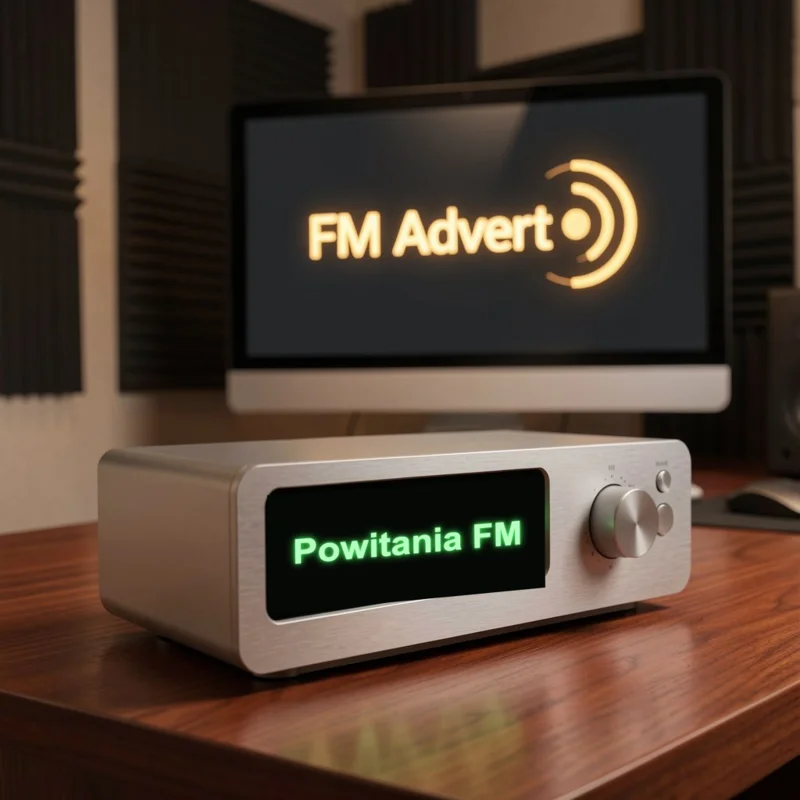
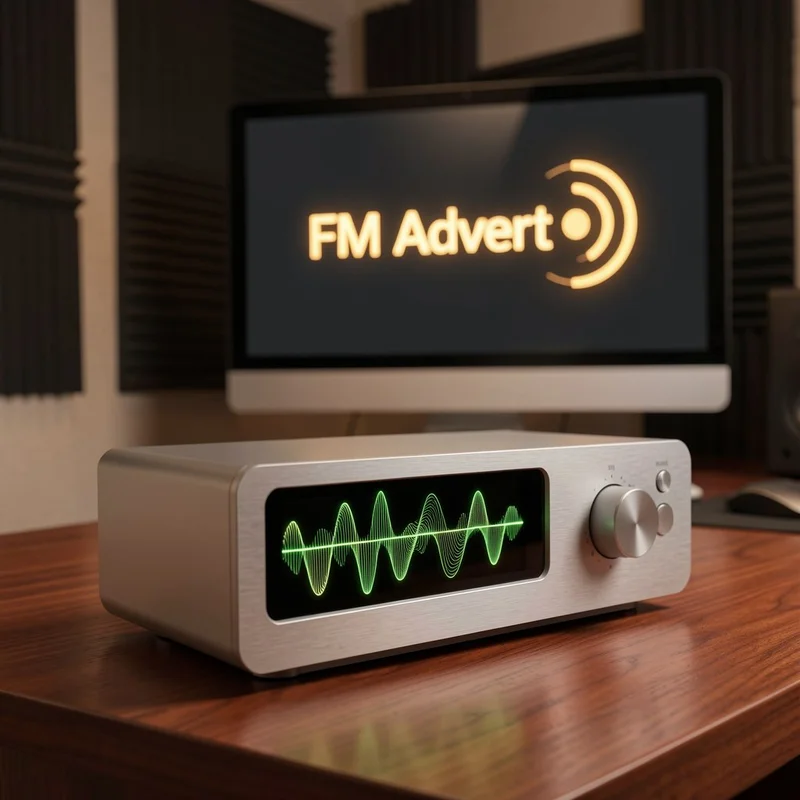
Sklep EN: ceny w EUR (kurs 4.20, sufit do 5 EUR jak bank glosow) + revert zdjec radia
- lib/pakiety.js: pole p.eur (eurCeil identyczne z plnToEur w server.js), tresci EN PLN->EUR
- EN index+detal: karty, kafle, hero, przycisk Order and pay, schema Offer w EUR; platnosc bez zmian w PLN netto (P24), notki "Payment in PLN: X PLN gross"
- meta description /en/packages/ w EUR
- llms.txt: wpis EN w EUR, usuniete stale wzmianki o dogrywce (PL+EN)
- zdjecia spotow radiowych przywrocone do oryginalu (sprzed edycji Powitania FM)

Changed region(s): [[0.3438, 0.5938, 0.6875, 0.75]]

diff --git a/lib/pakiety.js b/lib/pakiety.js
@@ -12,6 +12,10 @@
 
 const VAT = 0.23;
 const brutto = (netto) => (Math.round(netto * (1 + VAT) * 100) / 100).toFixed(2);
+// EUR do wyswietlania na EN: kurs i zaokraglenie W GORE do 5 EUR - identycznie jak
+// plnToEur() w server.js (bank glosow EN). Platnosc i tak idzie w PLN (P24).
+const EUR_RATE = 4.20;
+const eurCeil = (netto) => Math.ceil((netto / EUR_RATE) / 5) * 5;
 
 // Kategoria -> regex dopasowania próbek lektora (samples[].name w voices.json)
 const SAMPLE_MATCH = {
@@ -33,7 +37,7 @@ const PAKIETY = [
     title: 'Zapowiedź telefoniczna cena: pakiet START 380 zł netto | Powitania',
     titleEn: 'Phone greeting recording price: START package | Powitania',
     metaDescription: 'Ile kosztuje nagranie zapowiedzi telefonicznej? Pakiet START: do 3 komunikatów IVR, łącznie do 100 słów, głos z banku, licencja bezterminowa, realizacja 48h. Cena 380 zł netto (467,40 zł brutto), płatność online.',
-    metaDescriptionEn: 'Phone announcement recording package: up to 3 IVR messages, up to 100 words in total, voice from our bank, perpetual licence, 48h delivery. PLN 380 net, online payment.',
+    metaDescriptionEn: 'Phone announcement recording package: up to 3 IVR messages, up to 100 words in total, voice from our bank, perpetual licence, 48h delivery. EUR 95 net, online payment.',
     h1: 'Pakiet Zapowiedzi telefoniczne START',
     h1En: 'Phone announcements START package',
     short: 'Do 3 komunikatów IVR, łącznie do 100 słów. Nagranie na centralę w 48h, licencja bezterminowa.',
@@ -85,7 +89,7 @@ const PAKIETY = [
     title: 'Nagranie komunikatów IVR z muzyką: pakiet PRO 590 zł netto | Powitania',
     titleEn: 'IVR messages with music: PRO package | Powitania',
     metaDescription: 'Pakiet PRO: do 5 komunikatów IVR, łącznie do 200 słów, podkład muzyczny w cenie, realizacja 72h. Cena 590 zł netto (725,70 zł brutto). Zamów i zapłać online.',
-    metaDescriptionEn: 'PRO package: up to 5 IVR messages, up to 200 words in total, background music included, 72h delivery. PLN 590 net, online payment.',
+    metaDescriptionEn: 'PRO package: up to 5 IVR messages, up to 200 words in total, background music included, 72h delivery. EUR 145 net, online payment.',
     h1: 'Pakiet Zapowiedzi telefoniczne PRO',
     h1En: 'Phone announcements PRO package',
     short: 'Do 5 komunikatów IVR, łącznie do 200 słów, podkład muzyczny w cenie. Realizacja 72h.',
@@ -139,7 +143,7 @@ const PAKIETY = [
     title: 'Dwujęzyczna zapowiedź telefoniczna cena: pakiet PL+EN 530 zł | Powitania',
     titleEn: 'Bilingual phone announcements: PL+EN package | Powitania',
     metaDescription: 'Zapowiedzi telefoniczne po polsku i angielsku: do 3 komunikatów, łącznie do 100 słów, każdy w dwóch wersjach językowych. Cena 530 zł netto (651,90 zł brutto).',
-    metaDescriptionEn: 'Phone announcements in Polish and English: up to 3 messages, up to 100 words in total, each in two language versions. PLN 530 net.',
+    metaDescriptionEn: 'Phone announcements in Polish and English: up to 3 messages, up to 100 words in total, each in two language versions. EUR 130 net.',
     h1: 'Pakiet Zapowiedzi telefoniczne PL+EN',
     h1En: 'Phone announcements PL+EN package',
     short: 'Do 3 komunikatów, łącznie do 100 słów, każdy po polsku i angielsku. Dla firm z klientami zagranicznymi.',
@@ -189,7 +193,7 @@ const PAKIETY = [
     title: 'Komunikaty IVR dla firmy, komplet PL+EN: pakiet MAX 1500 zł | Powitania',
     titleEn: 'Complete bilingual IVR set: MAX package | Powitania',
     metaDescription: 'Kompletna obsługa centrali w dwóch językach: do 10 komunikatów IVR, łącznie do 500 słów, wersje polska i angielska, muzyka w cenie. 1500 zł netto (1845,00 zł brutto).',
-    metaDescriptionEn: 'Complete bilingual PBX set: up to 10 IVR messages, up to 500 words in total, Polish and English versions, music included. PLN 1500 net.',
+    metaDescriptionEn: 'Complete bilingual PBX set: up to 10 IVR messages, up to 500 words in total, Polish and English versions, music included. EUR 360 net.',
     h1: 'Pakiet Zapowiedzi telefoniczne MAX PL+EN',
     h1En: 'Phone announcements MAX PL+EN package',
     short: 'Do 10 komunikatów, łącznie do 500 słów, dwie wersje językowe, muzyka w cenie. Komplet dla rozbudowanej centrali.',
@@ -241,7 +245,7 @@ const PAKIETY = [
     title: 'Spot radiowy cena: nagranie 30 s ze stacją lokalną od 300 zł | Powitania',
     titleEn: 'Radio spot recording price: 30s local station | Powitania',
     metaDescription: 'Ile kosztuje nagranie spotu radiowego? 30-sekundowy spot z lektorem + licencja emisyjna 12 miesięcy na stację lokalną: 300 zł netto (369,00 zł brutto). Zamów online.',
-    metaDescriptionEn: 'Radio spot recording: 30-second voice-over with a 12-month broadcast licence for a local station. PLN 300 net, order online.',
+    metaDescriptionEn: 'Radio spot recording: 30-second voice-over with a 12-month broadcast licence for a local station. EUR 75 net, order online.',
     h1: 'Spot radiowy 30 s - stacja lokalna',
     h1En: 'Radio spot 30 s - local station',
     short: 'Nagranie lektorskie spotu do 30 s + licencja emisyjna 12 miesięcy na stację o zasięgu lokalnym.',
@@ -287,9 +291,9 @@ const PAKIETY = [
     nameEn: 'Radio spot 30 seconds - national station',
     netto: 900,
     title: 'Nagranie spotu radiowego na antenę ogólnopolską: 900 zł netto | Powitania',
-    titleEn: 'Radio spot for nationwide broadcast: PLN 900 net | Powitania',
+    titleEn: 'Radio spot for nationwide broadcast: EUR 215 net | Powitania',
     metaDescription: 'Spot radiowy 30 s z lektorem + licencja emisyjna 12 miesięcy na stację ogólnopolską: 900 zł netto (1107,00 zł brutto). Głos z banku, płatność online.',
-    metaDescriptionEn: '30-second radio spot with a 12-month broadcast licence for a nationwide station. PLN 900 net, online payment.',
+    metaDescriptionEn: '30-second radio spot with a 12-month broadcast licence for a nationwide station. EUR 215 net, online payment.',
     h1: 'Spot radiowy 30 s - stacja ogólnopolska',
     h1En: 'Radio spot 30 s - national station',
     short: 'Nagranie lektorskie spotu do 30 s + licencja emisyjna 12 miesięcy na stację o zasięgu ogólnopolskim.',
@@ -337,7 +341,7 @@ const PAKIETY = [
     title: 'Spot reklamowy do internetu: nagranie do 2 min za 950 zł netto | Powitania',
     titleEn: 'Online ad spot: recording up to 2 min | Powitania',
     metaDescription: 'Nagranie lektorskie do kampanii online i social media: do 2 minut, licencja emisyjna internet/social 12 miesięcy. 950 zł netto (1168,50 zł brutto).',
-    metaDescriptionEn: 'Voice-over for online and social campaigns: up to 2 minutes, 12-month online/social licence. PLN 950 net.',
+    metaDescriptionEn: 'Voice-over for online and social campaigns: up to 2 minutes, 12-month online/social licence. EUR 230 net.',
     h1: 'Spot do kampanii internetowej',
     h1En: 'Online campaign spot',
     short: 'Nagranie do 2 minut + licencja emisyjna online/social 12 miesięcy. Pod YouTube, Meta, TikTok i podcasty.',
@@ -385,7 +389,7 @@ const PAKIETY = [
     title: 'Lektor do filmu cena: narracja 1 strona (ok. 2 min) 450 zł | Powitania',
     titleEn: 'Film narration price: 1 page (approx. 2 min) | Powitania',
     metaDescription: 'Ile kosztuje lektor do filmu? Narracja do filmu lub prezentacji: 1 strona znormalizowana (ok. 2 minuty nagrania), plik audio lub synchronizacja z obrazem. 450 zł netto (553,50 zł brutto).',
-    metaDescriptionEn: 'Narration for a film or presentation: 1 standard page (approx. 2 minutes), audio file or picture sync. PLN 450 net.',
+    metaDescriptionEn: 'Narration for a film or presentation: 1 standard page (approx. 2 minutes), audio file or picture sync. EUR 110 net.',
     h1: 'Narracja do filmu / prezentacji - 1 strona',
     h1En: 'Film / presentation narration - 1 page',
     short: '1 strona znormalizowana tekstu (ok. 2 min nagrania). Plik audio albo synchronizacja z obrazem.',
@@ -433,7 +437,7 @@ const PAKIETY = [
     title: 'Narracja do prezentacji cennik: 2 strony (ok. 4 min) 550 zł | Powitania',
     titleEn: 'Presentation narration: 2 pages (approx. 4 min) | Powitania',
     metaDescription: 'Narracja do filmu lub prezentacji: 2 strony znormalizowane (ok. 4 minuty nagrania), plik audio lub synchronizacja z obrazem. 550 zł netto (676,50 zł brutto).',
-    metaDescriptionEn: 'Narration for a film or presentation: 2 standard pages (approx. 4 minutes), audio file or picture sync. PLN 550 net.',
+    metaDescriptionEn: 'Narration for a film or presentation: 2 standard pages (approx. 4 minutes), audio file or picture sync. EUR 135 net.',
     h1: 'Narracja do filmu / prezentacji - 2 strony',
     h1En: 'Film / presentation narration - 2 pages',
     short: '2 strony znormalizowane tekstu (ok. 4 min nagrania). Plik audio albo synchronizacja z obrazem.',
@@ -530,7 +534,7 @@ const _REMOVED_DOGRYWKA = [
 ];
 
 // Uzupelnij pola pochodne
-PAKIETY.forEach(p => { p.brutto = brutto(p.netto); });
+PAKIETY.forEach(p => { p.brutto = brutto(p.netto); p.eur = eurCeil(p.netto); });
 
 function getAll() { return PAKIETY; }
 function getBySlug(slug) { return PAKIETY.find(p => p.id === slug) || null; }

diff --git a/server.js b/server.js
@@ -1498,7 +1498,7 @@ app.get('/en/advertising-jingles/', (req, res) => {
 app.get('/en/packages/', (req, res) => {
   res.render('en/packages', {
     title: 'Voice-over packages with prices | Powitania.pl',
-    description: 'Fixed-price voice-over packages: IVR phone announcements from PLN 380, radio spots from PLN 300, film narration from PLN 450 net. Online ordering and payment, VAT invoice.',
+    description: 'Fixed-price voice-over packages: IVR phone announcements from EUR 95, radio spots from EUR 75, film narration from EUR 110 net. Online ordering and payment, VAT invoice.',
     pageHeroTransparent: true,
     breadcrumbs: [
       { name: 'Home', url: '/en/' },
